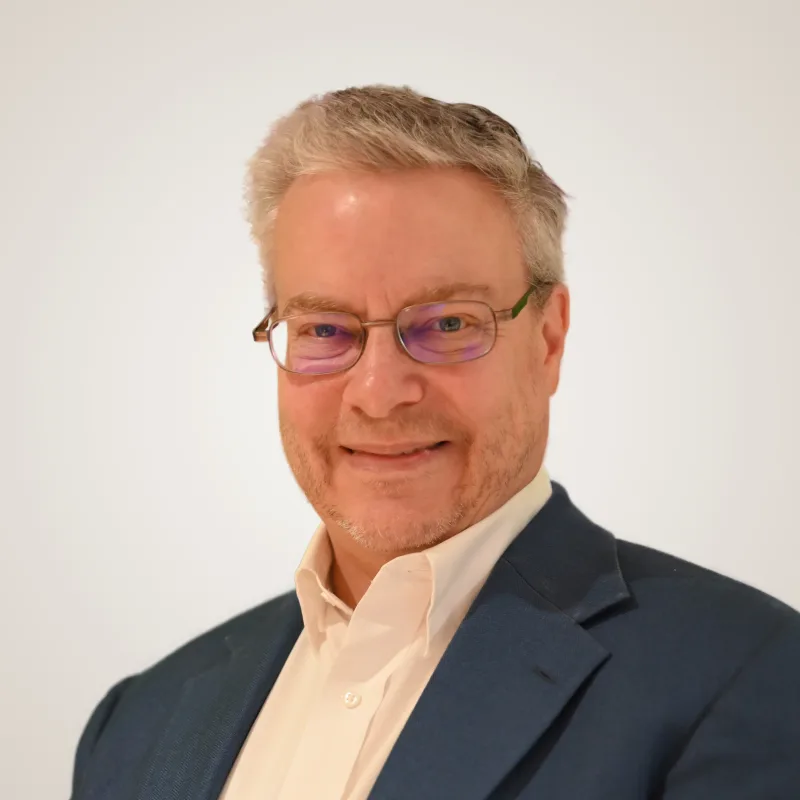
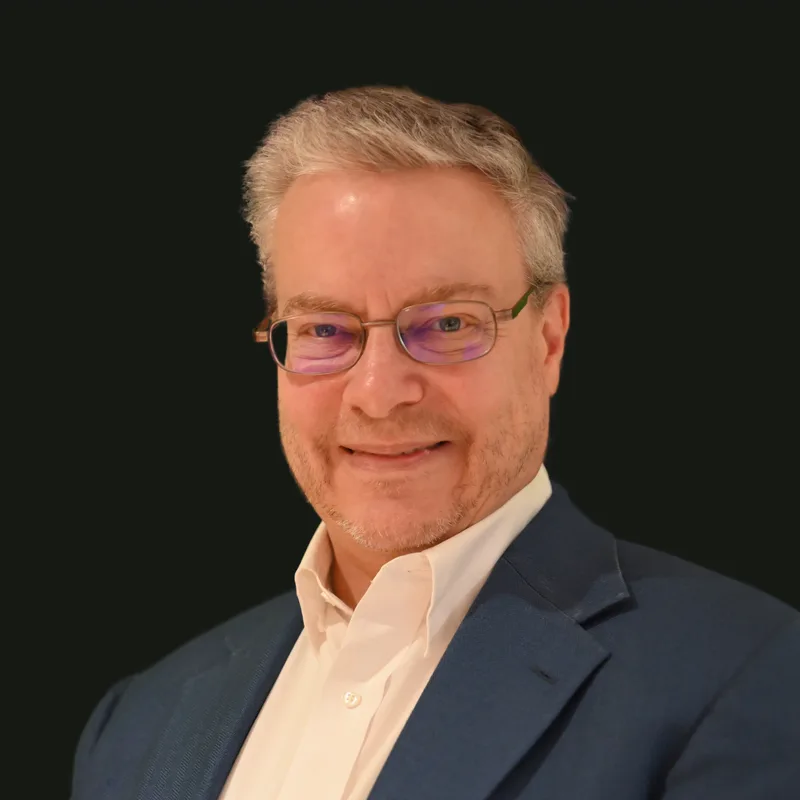
Swap live headshot to ink-background variant
img/headshot_jb.webp now uses the ink (#161914) background, matching
the on-ink hero/header sections it actually renders on (index.html,
about.html) so the photo blends into the page instead of showing as a
rectangle. Resized/flattened from the 4K Affinity export to 800x800,
alpha removed, ~21KB — matches the original file's footprint exactly.

Also commits the six raw 4K background variants (ink, vellum, paper,
gold, gold-ink, olive) and the comparison prototype used to pick one.

Claude-Session: https://claude.ai/code/session_01VksiUotgbaZtB4YBSWYeBR

diff --git a/proto/headshot-bg-compare.html b/proto/headshot-bg-compare.html
@@ -1,0 +1,339 @@
+<!DOCTYPE html>
+<html lang="en">
+
+<head>
+  <meta charset="UTF-8">
+  <meta name="viewport" content="width=device-width, initial-scale=1">
+  <title>Prototype — Headshot background compare | Jeffrey Benson</title>
+  <meta name="robots" content="noindex">
+  <link rel="preload" href="../fonts/Inter-var.woff2" as="font" type="font/woff2" crossorigin>
+  <link rel="preload" href="../fonts/InstrumentSerif-400.woff2" as="font" type="font/woff2" crossorigin>
+  <link rel="stylesheet" href="../css/site.css">
+  <style>
+    /* Proto-only chrome. This file gets deleted after the choice is made. */
+    body { background: var(--ink); }
+
+    .vband {
+      background: var(--ink-2);
+      color: var(--vellum);
+      --accent: var(--gold-ink);
+      --fg-muted: var(--n-300);
+      padding: var(--s-4) 0;
+      border-top: 3px solid var(--gold);
+    }
+    .vband p { margin: 0; }
+    .vband .vband__note {
+      font-size: var(--t-sm);
+      color: var(--fg-muted);
+      margin-top: var(--s-1);
+    }
+    .hero .eyebrow { margin-bottom: var(--s-4); }
+
+    /* Quick-scan swatch grid */
+    .swatch-grid {
+      display: grid;
+      grid-template-columns: repeat(3, 1fr);
+      gap: var(--s-6);
+      margin-top: var(--s-8);
+    }
+    @media (max-width: 700px) {
+      .swatch-grid { grid-template-columns: repeat(2, 1fr); }
+    }
+    .swatch {
+      border: 1px solid var(--rule);
+      border-radius: 4px;
+      overflow: hidden;
+    }
+    .swatch img {
+      display: block;
+      width: 100%;
+      aspect-ratio: 1 / 1;
+      object-fit: cover;
+    }
+    .swatch__label {
+      padding: var(--s-3) var(--s-4);
+      background: var(--ink-2);
+    }
+    .swatch__label strong {
+      display: block;
+      font-family: var(--font-text);
+      font-size: var(--t-sm);
+      text-transform: uppercase;
+      letter-spacing: 0.06em;
+    }
+    .swatch__label span {
+      font-size: var(--t-xs);
+      color: var(--fg-muted);
+    }
+  </style>
+</head>
+
+<body>
+
+  <!-- ════════════════ QUICK SCAN: all six side by side ════════════════ -->
+  <section class="section--tight on-ink">
+    <div class="wrap">
+      <p class="eyebrow">Quick scan &middot; six background variants</p>
+      <h2 style="margin-top:var(--s-2)">Same photo, six flat backgrounds.</h2>
+      <p class="card__body" style="max-width:var(--measure)">
+        Fast side-by-side before judging any of them in context below. The current live site uses
+        neither of these &mdash; it's the original background, shown first for reference.
+      </p>
+      <div class="swatch-grid">
+        <div class="swatch">
+          <img src="../img/headshot_jb.webp" alt="Current live headshot" width="800" height="800">
+          <div class="swatch__label"><strong>Current (live)</strong><span>original background, unchanged</span></div>
+        </div>
+        <div class="swatch">
+          <img src="../img/Headshot_ink_4Kx4K_square.webp" alt="Headshot on ink background" width="800" height="800">
+          <div class="swatch__label"><strong>Ink</strong><span>#161914 &mdash; matches the hero section itself</span></div>
+        </div>
+        <div class="swatch">
+          <img src="../img/Headshot_vellum_4Kx4K_square.webp" alt="Headshot on vellum background" width="800" height="800">
+          <div class="swatch__label"><strong>Vellum</strong><span>#f0ead6 &mdash; main site background</span></div>
+        </div>
+        <div class="swatch">
+          <img src="../img/Headshot_paper_4Kx4K_square.webp" alt="Headshot on paper background" width="800" height="800">
+          <div class="swatch__label"><strong>Paper</strong><span>#fbf8ef &mdash; article reading background</span></div>
+        </div>
+        <div class="swatch">
+          <img src="../img/Headshot_gold_4Kx4K_square.webp" alt="Headshot on gold background" width="800" height="800">
+          <div class="swatch__label"><strong>Gold</strong><span>#bfa36f &mdash; primary accent</span></div>
+        </div>
+        <div class="swatch">
+          <img src="../img/Headshot_gold-ink_4Kx4K_square.webp" alt="Headshot on gold-ink background" width="800" height="800">
+          <div class="swatch__label"><strong>Gold-ink</strong><span>#c9ae7a &mdash; lighter gold, used on dark backgrounds</span></div>
+        </div>
+        <div class="swatch">
+          <img src="../img/Headshot_olive_4Kx4K_square.webp" alt="Headshot on olive background" width="800" height="800">
+          <div class="swatch__label"><strong>Olive</strong><span>#3b4b35 &mdash; close-section background</span></div>
+        </div>
+      </div>
+    </div>
+  </section>
+
+  <!-- ════════════════ IN CONTEXT: index.html hero, one per variant ════════════════ -->
+
+  <div class="vband">
+    <div class="wrap">
+      <p class="eyebrow" style="--accent:var(--clay-text)">In context &middot; Current (live)</p>
+      <p class="vband__note">Baseline. This is what ships today on index.html and about.html.</p>
+    </div>
+  </div>
+  <header class="on-ink">
+    <div class="wrap hero">
+      <div class="hero__grid">
+        <div>
+          <p class="eyebrow">Process &amp; Operational Excellence &middot; Business Transformation</p>
+          <h1>Pulled in cold. Measurably better on the way out.</h1>
+          <p class="lede">
+            When the way work gets done has quietly stopped working, or become painful for the people
+            carrying it, I am the person brought in to sort it out. I listen first, map what is
+            actually happening in the business, find out why, and redesign the process so the
+            improvement lasts after I leave. Pulled into eight domains since 1994, each one measurably
+            better on the way out. I am a Lean Six Sigma Black Belt.
+          </p>
+          <div class="hero__actions">
+            <a class="btn btn--primary" href="#">See the record</a>
+            <a class="btn btn--ghost" href="#">Résumé&nbsp;(PDF)</a>
+          </div>
+        </div>
+        <img class="portrait" src="../img/headshot_jb.webp" width="800" height="800" alt="Jeffrey Benson">
+      </div>
+    </div>
+  </header>
+
+  <div class="vband">
+    <div class="wrap">
+      <p class="eyebrow" style="--accent:var(--clay-text)">In context &middot; Ink</p>
+      <p class="vband__note">Matches the hero section background exactly. The photo edge should disappear &mdash; subject floats, no visible frame.</p>
+    </div>
+  </div>
+  <header class="on-ink">
+    <div class="wrap hero">
+      <div class="hero__grid">
+        <div>
+          <p class="eyebrow">Process &amp; Operational Excellence &middot; Business Transformation</p>
+          <h1>Pulled in cold. Measurably better on the way out.</h1>
+          <p class="lede">
+            When the way work gets done has quietly stopped working, or become painful for the people
+            carrying it, I am the person brought in to sort it out. I listen first, map what is
+            actually happening in the business, find out why, and redesign the process so the
+            improvement lasts after I leave. Pulled into eight domains since 1994, each one measurably
+            better on the way out. I am a Lean Six Sigma Black Belt.
+          </p>
+          <div class="hero__actions">
+            <a class="btn btn--primary" href="#">See the record</a>
+            <a class="btn btn--ghost" href="#">Résumé&nbsp;(PDF)</a>
+          </div>
+        </div>
+        <img class="portrait" src="../img/Headshot_ink_4Kx4K_square.webp" width="800" height="800" alt="Jeffrey Benson">
+      </div>
+    </div>
+  </header>
+
+  <div class="vband">
+    <div class="wrap">
+      <p class="eyebrow" style="--accent:var(--clay-text)">In context &middot; Vellum</p>
+      <p class="vband__note">Matches the site's main page background, not the hero. Reads as a deliberate cream card against dark ink, not a blend.</p>
+    </div>
+  </div>
+  <header class="on-ink">
+    <div class="wrap hero">
+      <div class="hero__grid">
+        <div>
+          <p class="eyebrow">Process &amp; Operational Excellence &middot; Business Transformation</p>
+          <h1>Pulled in cold. Measurably better on the way out.</h1>
+          <p class="lede">
+            When the way work gets done has quietly stopped working, or become painful for the people
+            carrying it, I am the person brought in to sort it out. I listen first, map what is
+            actually happening in the business, find out why, and redesign the process so the
+            improvement lasts after I leave. Pulled into eight domains since 1994, each one measurably
+            better on the way out. I am a Lean Six Sigma Black Belt.
+          </p>
+          <div class="hero__actions">
+            <a class="btn btn--primary" href="#">See the record</a>
+            <a class="btn btn--ghost" href="#">Résumé&nbsp;(PDF)</a>
+          </div>
+        </div>
+        <img class="portrait" src="../img/Headshot_vellum_4Kx4K_square.webp" width="800" height="800" alt="Jeffrey Benson">
+      </div>
+    </div>
+  </header>
+
+  <div class="vband">
+    <div class="wrap">
+      <p class="eyebrow" style="--accent:var(--clay-text)">In context &middot; Paper</p>
+      <p class="vband__note">Slightly lighter/whiter than vellum. Same framed-card effect against ink, very close to vellum in this context.</p>
+    </div>
+  </div>
+  <header class="on-ink">
+    <div class="wrap hero">
+      <div class="hero__grid">
+        <div>
+          <p class="eyebrow">Process &amp; Operational Excellence &middot; Business Transformation</p>
+          <h1>Pulled in cold. Measurably better on the way out.</h1>
+          <p class="lede">
+            When the way work gets done has quietly stopped working, or become painful for the people
+            carrying it, I am the person brought in to sort it out. I listen first, map what is
+            actually happening in the business, find out why, and redesign the process so the
+            improvement lasts after I leave. Pulled into eight domains since 1994, each one measurably
+            better on the way out. I am a Lean Six Sigma Black Belt.
+          </p>
+          <div class="hero__actions">
+            <a class="btn btn--primary" href="#">See the record</a>
+            <a class="btn btn--ghost" href="#">Résumé&nbsp;(PDF)</a>
+          </div>
+        </div>
+        <img class="portrait" src="../img/Headshot_paper_4Kx4K_square.webp" width="800" height="800" alt="Jeffrey Benson">
+      </div>
+    </div>
+  </header>
+
+  <div class="vband">
+    <div class="wrap">
+      <p class="eyebrow" style="--accent:var(--clay-text)">In context &middot; Gold</p>
+      <p class="vband__note">Primary accent color as a framed card. Warmer/brighter than vellum or paper.</p>
+    </div>
+  </div>
+  <header class="on-ink">
+    <div class="wrap hero">
+      <div class="hero__grid">
+        <div>
+          <p class="eyebrow">Process &amp; Operational Excellence &middot; Business Transformation</p>
+          <h1>Pulled in cold. Measurably better on the way out.</h1>
+          <p class="lede">
+            When the way work gets done has quietly stopped working, or become painful for the people
+            carrying it, I am the person brought in to sort it out. I listen first, map what is
+            actually happening in the business, find out why, and redesign the process so the
+            improvement lasts after I leave. Pulled into eight domains since 1994, each one measurably
+            better on the way out. I am a Lean Six Sigma Black Belt.
+          </p>
+          <div class="hero__actions">
+            <a class="btn btn--primary" href="#">See the record</a>
+            <a class="btn btn--ghost" href="#">Résumé&nbsp;(PDF)</a>
+          </div>
+        </div>
+        <img class="portrait" src="../img/Headshot_gold_4Kx4K_square.webp" width="800" height="800" alt="Jeffrey Benson">
+      </div>
+    </div>
+  </header>
+
+  <div class="vband">
+    <div class="wrap">
+      <p class="eyebrow" style="--accent:var(--clay-text)">In context &middot; Gold-ink</p>
+      <p class="vband__note">The lighter gold tint, specifically chosen elsewhere on the site for use against dark ink. Nearly identical to plain Gold at this saturation.</p>
+    </div>
+  </div>
+  <header class="on-ink">
+    <div class="wrap hero">
+      <div class="hero__grid">
+        <div>
+          <p class="eyebrow">Process &amp; Operational Excellence &middot; Business Transformation</p>
+          <h1>Pulled in cold. Measurably better on the way out.</h1>
+          <p class="lede">
+            When the way work gets done has quietly stopped working, or become painful for the people
+            carrying it, I am the person brought in to sort it out. I listen first, map what is
+            actually happening in the business, find out why, and redesign the process so the
+            improvement lasts after I leave. Pulled into eight domains since 1994, each one measurably
+            better on the way out. I am a Lean Six Sigma Black Belt.
+          </p>
+          <div class="hero__actions">
+            <a class="btn btn--primary" href="#">See the record</a>
+            <a class="btn btn--ghost" href="#">Résumé&nbsp;(PDF)</a>
+          </div>
+        </div>
+        <img class="portrait" src="../img/Headshot_gold-ink_4Kx4K_square.webp" width="800" height="800" alt="Jeffrey Benson">
+      </div>
+    </div>
+  </header>
+
+  <div class="vband">
+    <div class="wrap">
+      <p class="eyebrow" style="--accent:var(--clay-text)">In context &middot; Olive</p>
+      <p class="vband__note">Dark green, closer in value to ink than the light variants, so the frame is more subtle color-shift than stark rectangle.</p>
+    </div>
+  </div>
+  <header class="on-ink">
+    <div class="wrap hero">
+      <div class="hero__grid">
+        <div>
+          <p class="eyebrow">Process &amp; Operational Excellence &middot; Business Transformation</p>
+          <h1>Pulled in cold. Measurably better on the way out.</h1>
+          <p class="lede">
+            When the way work gets done has quietly stopped working, or become painful for the people
+            carrying it, I am the person brought in to sort it out. I listen first, map what is
+            actually happening in the business, find out why, and redesign the process so the
+            improvement lasts after I leave. Pulled into eight domains since 1994, each one measurably
+            better on the way out. I am a Lean Six Sigma Black Belt.
+          </p>
+          <div class="hero__actions">
+            <a class="btn btn--primary" href="#">See the record</a>
+            <a class="btn btn--ghost" href="#">Résumé&nbsp;(PDF)</a>
+          </div>
+        </div>
+        <img class="portrait" src="../img/Headshot_olive_4Kx4K_square.webp" width="800" height="800" alt="Jeffrey Benson">
+      </div>
+    </div>
+  </header>
+
+  <!-- ════════════════ PROTOTYPE NOTES — not part of the design ════════════════ -->
+  <section class="section--tight on-ink">
+    <div class="wrap measure">
+      <p class="eyebrow">How to judge these</p>
+      <p class="card__body mt-8">
+        Both real placements (<code>index.html</code> hero, <code>about.html</code> header) sit on
+        the dark <code>on-ink</code> section shown here. <strong>Ink</strong> is the only variant
+        that actually blends into that background &mdash; every other variant will show as a visible
+        rectangle behind the subject, which may or may not be the look you want.
+      </p>
+      <p class="card__body">
+        This page is throwaway: <code>proto/headshot-bg-compare.html</code>, noindex, delete after
+        the choice is made.
+      </p>
+    </div>
+  </section>
+
+</body>
+
+</html>
